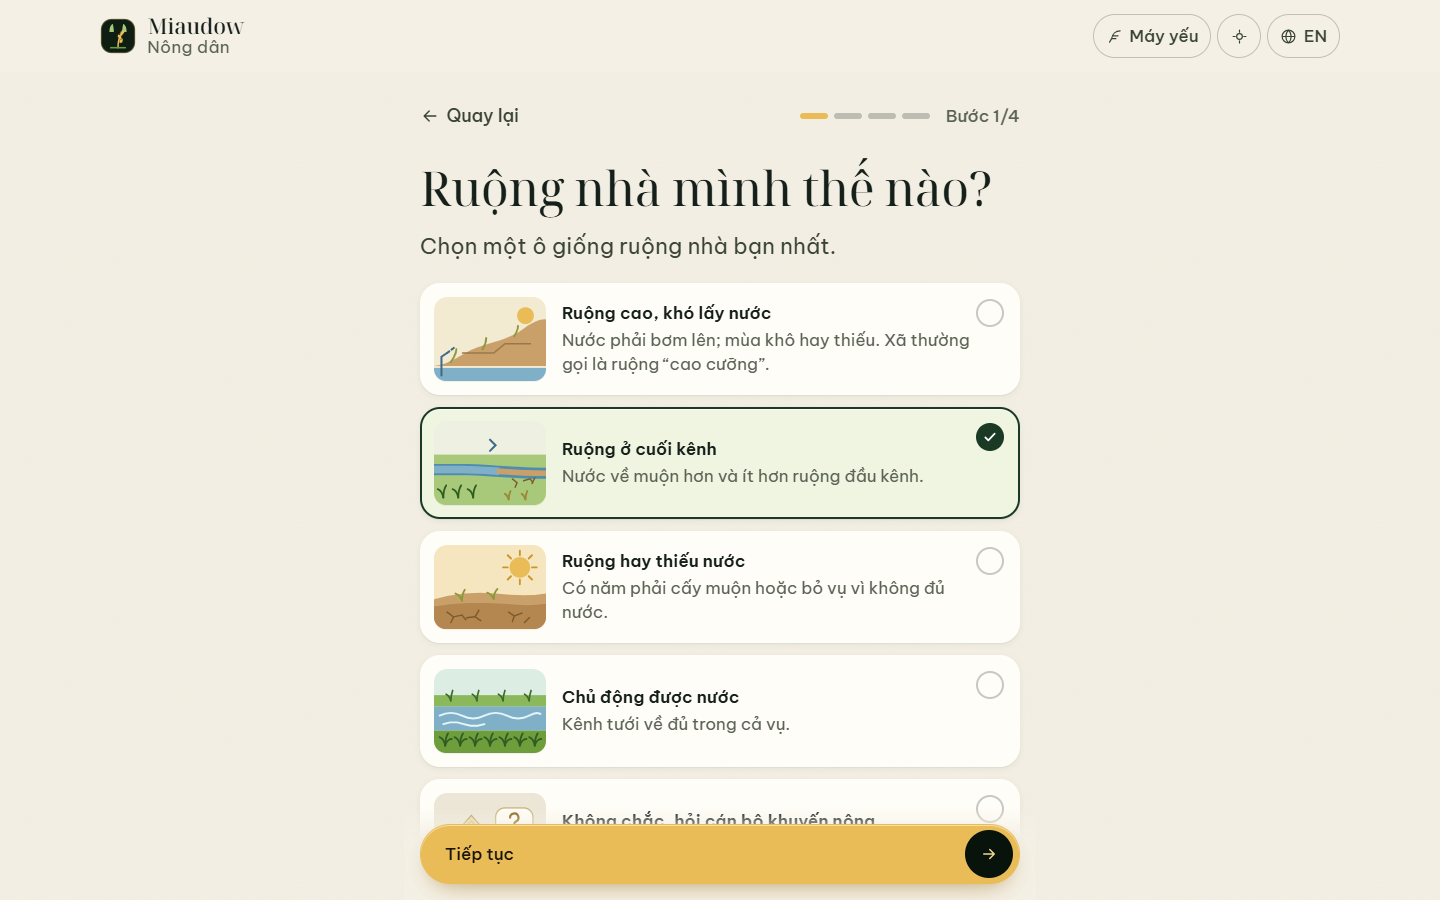
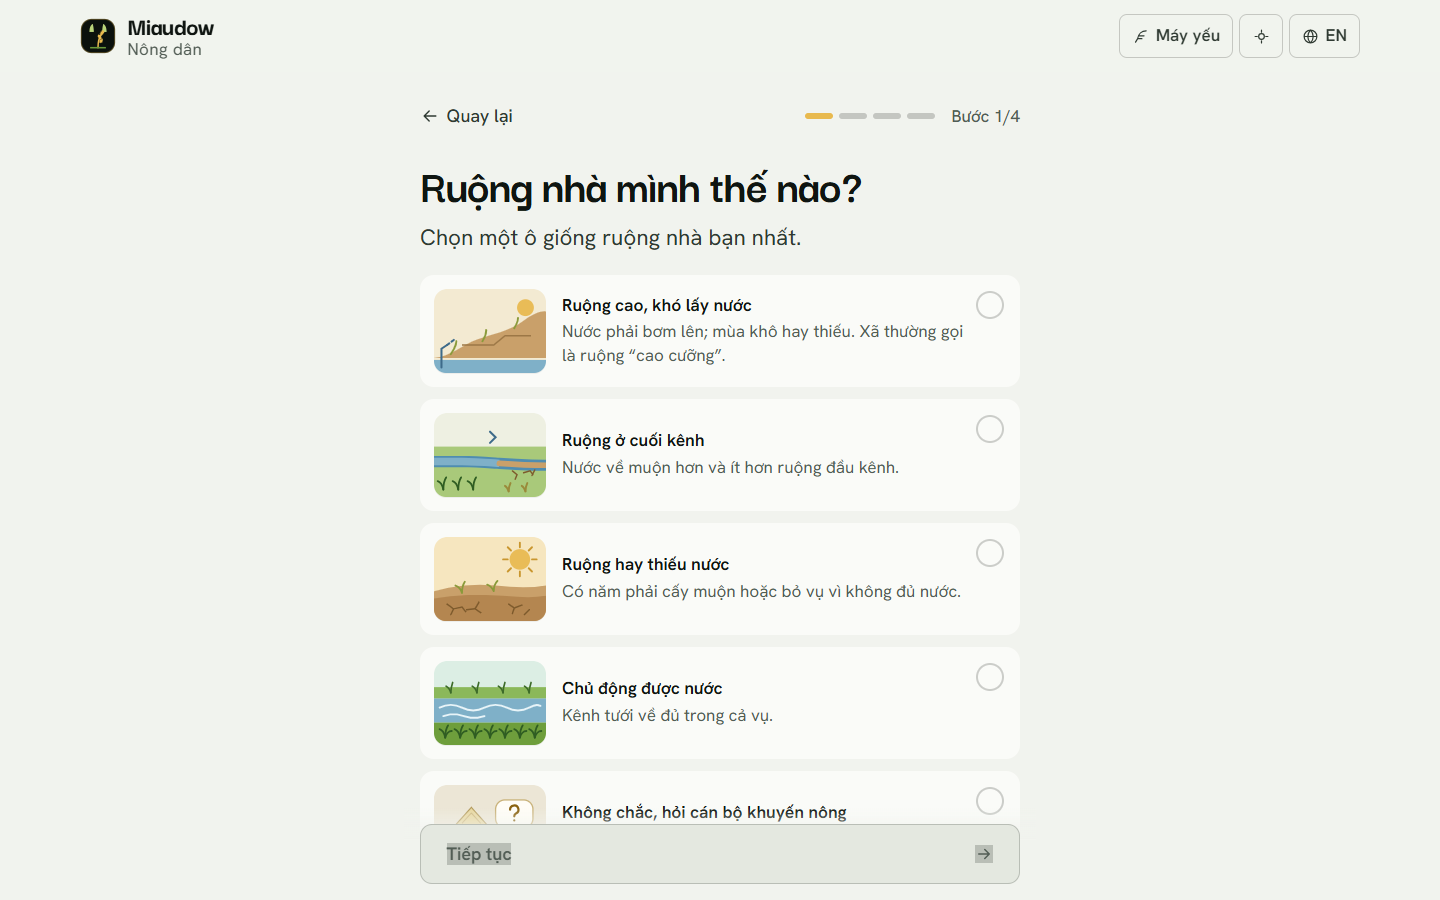
docs: redesign decisions, licences, template audit and screenshots

diff --git a/docs/05-DECISION-LOG.md b/docs/05-DECISION-LOG.md
@@ -92,6 +92,22 @@ data, so some starter decisions are superseded; each supersession is recorded he
 | D-041 | One implementation, read back for the web | `pipeline/build_canonical.py` writes `climate_ml.json` by calling `api/miaudow_api/climate_ml.py`, as it does for `decision.json`. The web shows the hit rates from counts (16/33 = 48 %), because the stored rates are rounded to three decimals and rounding twice turned 48.48 % into 49 %. |
 | D-042 | Data-quality report on every build | `pipeline/check_quality.py` runs last in the canonical build and never stops it: 75 checks, 64 pass, 11 warn, 0 fail, shown on the evidence page as written. The "POWER cells inside the province" check is a warning, not a failure, for cell 18.5_105.625: its centre lies south of the province box, but its footprint overlaps Nghệ An (21 %) and only the in-province farmland carries weight. |
 
+## Decisions of the redesign (15 Nov 2026)
+
+Asked for by member B: less template look, cinematic motion with GSAP, the team's own photographs, a clear view of the
+four AI cores, and numbers a farmer can read. The packages and fonts below need the team's approval under D-155
+before merge (an entry in the team's decision log and the miaudow allow-list); until then they are proposed here.
+
+| ID | Decision | Why and what it costs |
+|---|---|---|
+| D-043 | Motion by GSAP: `gsap` 3.15.0 and `@gsap/react` 2.1.2, in one module (`web/src/motion/cinema.ts`) | Member B's request. GSAP is free for all use, SplitText and ScrollTrigger included, since 3.13, under GSAP's "Standard no-charge" licence: free and public, **not an OSI licence**, which the team must accept for the submission rule on third-party material. 3.15.0 (13 Apr 2026) rather than 3.15.1 (4 Nov 2026, under two weeks old). Each page has one authored moment (home: the title rising out of its mask, the photographs changing, the held photograph of the AI cores; other pages: the title only); the CSS always holds the final state and GSAP animates from elsewhere, so a slow phone, a screen reader or a screenshot sees the whole page. Nothing runs in lite mode or under reduced motion (`gsap.matchMedia`), and the changing photographs have a pause button (H1, D-155). GSAP ships in the main chunk (about 45 kB gzip), including on farmer routes; it draws no canvas or WebGL. |
+| D-044 | Fonts: Darker Grotesque (display) and Hanken Grotesk (text and numbers) replace Be Vietnam Pro, Noto Serif Display and JetBrains Mono | `@fontsource-variable/darker-grotesque` and `@fontsource-variable/hanken-grotesk` 5.3.0 (19 Jul 2026), OFL-1.1, variable, Vietnamese subsets, served by the app (D-155). Chosen from a specimen of 13 faces set in Vietnamese; faces without Vietnamese (Schibsted Grotesk, Bodoni Moda, Gloock, Instrument Serif) and faces both design references list as overused (Inter, Fraunces, Playfair, Cormorant, Newsreader, Plus Jakarta Sans, Space Grotesk) were dropped. Numbers use Hanken Grotesk's tabular figures: no monospace face as a "technical" costume. No italic anywhere (the display face has none). |
+| D-045 | The team's mood photographs are used on this machine only | 21 photographs from the team's folder `photoS_aesthetics_vietfarm` (one duplicate removed) have no recorded author, source or licence, and 9 carry a signature or logo (Daniel Kordan, Lê Khánh, Lê Hồng Hà, Hoàng Cường, Tuổi Trẻ, "GA"); none is cropped or covered. `web/pipeline/build_mood.mjs` builds them into git-ignored files; `web/src/data/art.ts` uses them when present and the licensed photographs and concept art otherwise, so a published build never contains them. They are never captioned with a place. Publishing them needs the photographers' permission (member B's decision, 15 Nov 2026). |
+| D-046 | No text on pictures | Captions and credit badges no longer sit on photographs or illustrations (member B: they read as clutter). Every CC BY / CC BY-SA credit stays in the footer list "Ảnh và giấy phép", which the licences accept as a reasonable manner of attribution; alt text still describes each picture. |
+| D-047 | Plain words before numbers for farmers | A farmland share is read as one of four words (none; a few places, under a third; many places, under two thirds; almost everywhere), always beside the number, which still opens its source (H5). A plan card shows the calendar, the year's profit, bad weather in three words and land care; the per-crop profits, the full weather table, rice yields, water and soil moisture sit behind "Xem đủ số liệu", except water, which stays visible when the family chose water. The warnings stay inside the card (H17). |
+| D-048 | The four AI cores named where they work | The home page explains each core in four lines (what it does, what it uses, what it gives, what it cannot do yet) beside a held photograph; a "Lõi AI …" tag marks the sections each core powers (climate analogs, evidence claims, copilot) and leads back there. |
+| D-049 | Template-pattern audit with Impeccable | `npx impeccable@4.7.0 detect` (Apache-2.0; 4.7.0 from 19 Oct 2026, the newest older than two weeks): the source went from 8 findings (all thick side borders) to 0. The browser scan of the plans page went from 18 to 4: two calendar tracks read as nested cards, the hatched "field empty" legend (a data mark, kept) and one short last line. Removed with it: the kicker label above headings, 01/02 section numbers, pill buttons with an arrow disc, the three-figure hero row, ghost cards, the red seal beside every number (now a dotted underline on the number itself). |
+
 ### Packages of the 2.0 build
 
 Exact pins, each published at least two weeks before use. Runtime packages of the web app are the team-approved
@@ -103,7 +119,10 @@ ones (team decision D-157) plus three.js.
 | react-router-dom | 7.18.5 | MIT | hash routing, lazy areas, view transitions | in the main chunk | hand-made router | none known |
 | three | 0.186.1 | MIT | WebGL observatory of the real Nghệ An outline and NASA grid | only in the science chunk (≈ 635 kB, ≈ 165 kB gzip); never on farmer routes | CSS 3D (kept as fallback), deck.gl/MapLibre (heavier, needs tiles); Cesium serves the globe (D-035) | renders local data only |
 | cesium (with @cesium/engine 26.4.0, @cesium/widgets 16.3.0, @cesium/core 0.1.0 via overrides) | 1.146.0 | Apache-2.0 | 3D Earth observatory from space to Lưu Sơn (D-035, D-036) | only in the observatory chunk (4.2 MB, 1.13 MB gzip); runtime files (workers, sky box) copied by `web/pipeline/copy_cesium.mjs`, git-ignored; never on farmer routes | three.js globe (no geodesy, no imagery tiling), MapLibre globe (no 3D extrusions over a globe in the pinned version), NASA Eyes only (cannot show our data) | no ion token, no third-party tiles except NASA GIBS and our own Sentinel-2 PNGs |
-| @fontsource/be-vietnam-pro, noto-serif-display, jetbrains-mono | 5.3.0 | OFL-1.1 | self-hosted fonts with the Vietnamese subset | only imported weights ship | Google Fonts CDN (rejected: third-party request) | none |
+| gsap | 3.15.0 | GSAP Standard no-charge licence (free, not OSI) | motion (D-043) | main chunk, about 45 kB gzip with ScrollTrigger and SplitText | CSS only (kept as the final state), motion/react | — |
+| @gsap/react | 2.1.2 | GSAP Standard no-charge licence | `useGSAP` cleanup in React | a few kB | `gsap.context` in `useEffect` | — |
+| @fontsource-variable/darker-grotesque, @fontsource-variable/hanken-grotesk | 5.3.0 | OFL-1.1 | self-hosted variable fonts with the Vietnamese subset (D-044) | one woff2 per subset, loaded by unicode range | Be Vietnam Pro, Noto Serif Display, JetBrains Mono (replaced) | — |
+| @fontsource/be-vietnam-pro, noto-serif-display, jetbrains-mono (removed 15 Nov, D-044) | 5.3.0 | OFL-1.1 | self-hosted fonts with the Vietnamese subset | only imported weights ship | Google Fonts CDN (rejected: third-party request) | none |
 | fastapi | 0.162.5 | MIT | API | server only | — | CORS allow-list from env |
 | uvicorn[standard] | 0.54.0 | BSD-3-Clause | ASGI server | server only | — | — |
 | pydantic | 2.13.5 | MIT | contracts | server only | — | — |

diff --git a/README.md b/README.md
@@ -9,7 +9,7 @@ every number with its source. Team Miaudow, NASA Space Apps Challenge 2026 (Hà 
 
 | Area | Route | For | What it does |
 |---|---|---|---|
-| Home | `#/` | everyone | Eight chapters from Nghệ An rice land to the satellite grid, on licensed photographs |
+| Home | `#/` | everyone | The problem in one sentence, the four AI cores (what each does, uses, gives and cannot do yet), thirty years in one chart, the four farmer steps and the observatory |
 | Farmer | `#/nong-dan` … `/phuong-an` | farmers | Four tap-only steps; plan cards with a 12-month calendar, trial profit, weather, water, land care, sourced risks and questions for the officer. No 3D, nothing stored in the browser |
 | Officer | `#/can-bo` | extension officers | Evidence desk: conclusion → meaning → number → source → method and limits, the fit with a family's field, the matrix |
 | Science | `#/khoa-hoc?nam=2020` | judges, researchers | WebGL observatory of the real province outline and NASA grid; one shared year across the 34-year rain strip, NASA POWER vs CHIRPS, MODIS NDVI, the closest past years and the unusual years (climate ML, with its test results), rice history and the model test |
@@ -80,7 +80,8 @@ NASA POWER daily caches for the five cells are committed under `data/raw/power*`
 .venv/Scripts/python -m pytest api/tests pipeline/tests -q   # 288 tests
 .venv/Scripts/ruff check api pipeline scripts
 cd web && npx tsc -b && npx eslint . && npx vitest run      # 39 unit tests
-cd web && npm run build && npx playwright test e2e/journey.spec.ts   # 48 browser tests incl. WCAG 2.2 AA
+cd web && npm run build && npx playwright test e2e/journey.spec.ts   # 54 browser tests incl. WCAG 2.2 AA
+npx impeccable@4.7.0 detect web/src                          # template-pattern audit (0 findings)
 .venv/Scripts/python api/eval/run_retrieval_eval.py          # retrieval benchmark
 .venv/Scripts/python api/eval/run_climate_ml_eval.py         # climate ML evaluation
 .venv/Scripts/python pipeline/check_quality.py               # data-quality report
@@ -95,7 +96,8 @@ Results, performance measurements and the completion matrix: `docs/09-VERIFICATI
 - Past years are never a forecast; the copilot refuses forecasts, prices and rankings.
 - Plans are listed in the study's order and never scored, ranked or sorted.
 - Missing values stay missing; nothing is interpolated or filled with zero.
-- Photographs carry their creator and licence; concept art is always labelled as illustration.
+- Pictures carry no text; every photograph's creator and licence is in the footer list, concept art says it is an
+  illustration in its alt text, and the team's unlicensed mood photographs never leave the machine they were built on.
 - Nothing is stored in the browser.
 
 ## Folders
@@ -119,4 +121,8 @@ geoBoundaries (gbOpen; ADM2 under CC BY 3.0 IGO, source OCHA ROAP), NASA GIBS im
 imagery provided by services from NASA's Global Imagery Browse Services (GIBS), part of NASA's Earth Science Data and
 Information System (ESDIS)"), NASA Eyes (opened, not copied), CesiumJS (Apache-2.0), Cục Thống kê (NSO Vietnam),
 Vietnamese legal texts (not subject to copyright, Luật SHTT Điều 15). Photographs: see `assets/photos/PHOTO_MANIFEST.json`
-and the footer of the app. MIAUDOW is not endorsed by NASA, ESA or any data provider.
+and the footer of the app. Fonts: Darker Grotesque and Hanken Grotesk (OFL-1.1). Motion: GSAP 3.15.0 and @gsap/react
+2.1.2 (GSAP Standard no-charge licence, not OSI). Design references read, no code copied: cinematic-ui by
+akseolabs-seo (MIT, commit 37651d0), GSAP skills by GreenSock (MIT, commit aed9cfd), Impeccable by Paul Bakaus
+(Apache-2.0, commit 1995764; its detector 4.7.0 was run), React Bits by David Haz (MIT + Commons Clause, commit
+cf28010). MIAUDOW is not endorsed by NASA, ESA or any data provider.

diff --git a/docs/04-DESIGN-SYSTEM.md b/docs/04-DESIGN-SYSTEM.md
@@ -2,6 +2,10 @@
 
 ## Brand architecture
 
+> Redesign of 15 Nov 2026 (D-043 to D-049): night surfaces for the story, rice-water light (`#F1F3EE`, not cream) for
+> the tools, one accent (ripe-rice gold) for the action a person takes, photographs carry the colour. The sections
+> below are updated where the redesign changed them.
+
 **Core experience:** Vietnamese rural heritage × editorial luxury × scientific precision. No AI neon, no generic green-tech ornament. The soul is Nghệ An lowland agriculture and Lam River atmosphere; atmospheric images are artistic, sources are scientific.
 
 ### Visual principles
@@ -29,12 +33,15 @@
 
 **Critical**: labels and charts must not rely on color alone. Text contrast for 10–12 px microcopy needs specific AA validation. The decorative research caption font may be <14 px, but never in the farmer primary path.
 
-### Typography
+### Typography (redesign, 15 Nov 2026, D-044)
 
-- Display: `Noto Serif` with Vietnamese support verified before production. Scale desktop: 52–119 px depending context, mobile: 35–70 px.
-- Primary UI: `Be Vietnam Pro`, weights 400–700. Body default 15 px site-wide, **farmer UI 15–18 px**, 1.65–1.85 line height.
-- Data: `DM Mono`, limited to numeric and provenance notes.
-- No font binaries included. Hosted type may fall back to Georgia/system fonts without network.
+- Display: **Darker Grotesque** (variable, 700–750), tight (-0.02em), line height 0.94–1.04. Hero 56–132 px, page titles
+  48–100 px. Headings rise out of a line mask once per page (GSAP SplitText); the mask is padded so Vietnamese marks
+  above and below (ộ, ụ, ữ) are never clipped.
+- Text and numbers: **Hanken Grotesk** (variable, 400–650), 18 px body, 17 px floor everywhere (H6), tabular figures for
+  numbers. No monospace face, no italic.
+- Both OFL-1.1, served by the app with their Vietnamese subsets (D-155).
+
 
 ### Spacing and shape
 
@@ -45,13 +52,14 @@
 - Atypical image silhouette such as top-right 140 px leaf corner reserved for hero editorial imagery, not scattered across ordinary controls.
 - Shadows low contrast on paper, more emphasis from typography, color and photography.
 
-### Motion
+### Motion (redesign, D-043)
 
-- 400–1000 ms editorial motion, cubic-bezier `.2,.75,.25,1`.
-- Atmospheric hero Ken Burns 22 s max only when motion permitted; no constant aggressive animation.
-- Hover: 3–5% image scale, subtle translateY ≤ 7 px.
-- Science stage: pointer drag rotates CSS 3D illustration. For **real georeferenced** rendering use MapLibre/deck.gl or Cesium after geometry exists and licences are approved.
-- `prefers-reduced-motion` and manual Lite disable motion; Lite deliberately avoids loading heavyweight immersive layers in future.
+- GSAP 3.15.0 in one module (`web/src/motion/cinema.ts`). Easing by character: heavy `expo.out` 1.1–2.6 s for the
+  cinema, `power3.inOut` for transitions, under 250 ms for the tools. Nothing bounces.
+- One authored moment per page; no fade-up on every block. The CSS holds the final state; GSAP animates from elsewhere.
+- The opening photographs change every 7 s with a visible pause button; under reduced motion or "Máy yếu" nothing
+  moves and every word is visible (H1, D-155). No video.
+
 
 ### Component semantic rules
 

diff --git a/docs/09-VERIFICATION-REPORT.md b/docs/09-VERIFICATION-REPORT.md
@@ -13,8 +13,9 @@ Date: 14 November 2026. Machine: Windows 11, Python 3.13.2, Node 26.13.1, Micros
 | Type check | `cd web && npx tsc -b` | clean |
 | Web lint | `cd web && npx eslint .` | clean (strict typescript-eslint, react-hooks, complexity ≤ 14) |
 | Web unit tests | `cd web && npx vitest run` | **39 passed** |
-| Browser journeys + WCAG 2.2 AA (axe) | `cd web && npm run build && npx playwright test e2e/journey.spec.ts` (API running on :8000; for repeated local runs set `MIAUDOW_COPILOT_RATE=500/600`, the default 20 questions per 10 minutes is reached) | **47 passed, 1 skipped** (clipboard check runs on desktop only) at 360 × 740 and 1440 × 900 |
-| Production build | `cd web && npm run build` | builds; largest chunks (gzip): Earth globe 1.13 MB (`/dai-quan-sat` only), science 3D 154 kB (science only), React 99 kB, app shell 92 kB |
+| Browser journeys + WCAG 2.2 AA (axe) | `cd web && npm run build && npx playwright test e2e/journey.spec.ts` (API running on :8000; for repeated local runs set `MIAUDOW_COPILOT_RATE=500/600`, the default 20 questions per 10 minutes is reached) | **53 passed, 1 skipped** (clipboard check runs on desktop only) at 360 × 740 and 1440 × 900 |
+| Production build | `cd web && npm run build` | builds; largest chunks (gzip): Earth globe 1.13 MB (`/dai-quan-sat` only), science 3D 154 kB (science only), main chunk 116 kB (app shell, router and GSAP) |
+| Template-pattern audit | `npx impeccable@4.7.0 detect web/src` | **0 findings** (was 8); browser scan of the plans page at 390 px: 4 (was 18), see D-049 |
 | Retrieval benchmark | `.venv\Scripts\python api/eval/run_retrieval_eval.py` | see below |
 | Climate ML evaluation | `.venv\Scripts\python api/eval/run_climate_ml_eval.py` | see below; a test checks the stored file equals a fresh run |
 | Data-quality report | `.venv\Scripts\python pipeline/check_quality.py` (also the last step of the canonical build) | **75 checks: 64 pass, 11 warn, 0 fail** |

diff --git a/docs/03-PHOTOGRAPHY-AND-ART-LICENSES.md b/docs/03-PHOTOGRAPHY-AND-ART-LICENSES.md
@@ -57,3 +57,12 @@ These are research sources and creative references; **never copy them into `publ
 ## Golden-grade method
 
 The color-grade package uses restrained saturation, slightly lifted warmth, subtle contrast and a small vignette. It does not transform a source image into scientific data. The original concept variants are retained for comparison. The recommended palette is forest `#0C2015`, rice gold `#E7BB55`, warm paper `#F3EFE5`, all with accessible text contrast verified during integration.
+
+## Mood photographs of the team (15 Nov 2026, D-045)
+
+The team's folder `photoS_aesthetics_vietfarm` holds 22 files (21 distinct photographs) of Vietnamese farm life with no
+recorded author, source page or licence. Nine carry a visible signature or logo: Daniel Kordan (two), Lê Khánh, Lê Hồng
+Hà, Hoàng Cường (two), Tuổi Trẻ, "GA", and one small mark on the right edge. They are used only on a machine that runs
+`web/pipeline/build_mood.mjs`; the outputs (`web/public/media/mood/`, `web/src/data/generated/media.mood.json`) are
+git-ignored, and every published build falls back to the licensed photographs above. No signature is cropped or
+covered, and no mood photograph is captioned with a place. Publishing them needs each photographer's permission.
